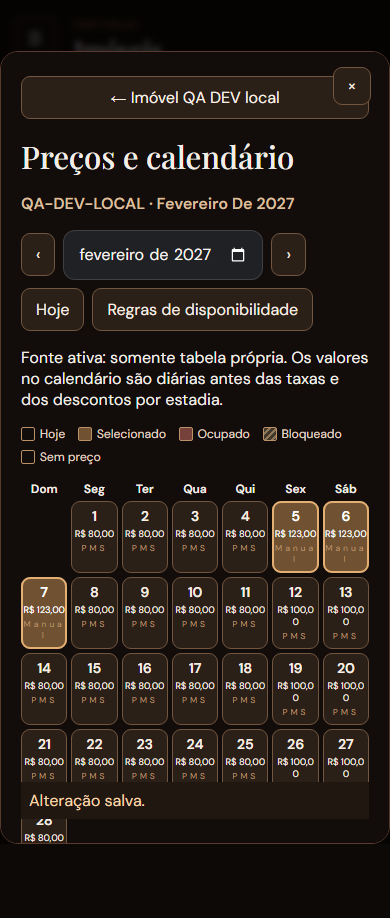
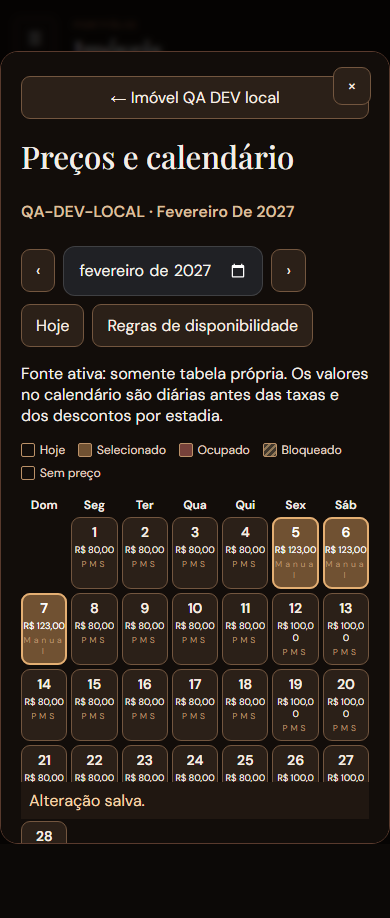
Finish PMS DEV UX review and regression report

Changed region(s): [[0.0308, 0.2135, 0.9538, 0.854], [0.0615, 0.8845, 0.1846, 0.915]]

diff --git a/admin.js b/admin.js
@@ -671,7 +671,7 @@ function openReservation(id,options={}){
   if(!options.fromHistory)panelState('prices',{id:p.id,month:initialMonth||today().slice(0,7),origin:options.origin||'property',selection:options.selection});
  window.VillePropertyPricing.mount($('#admin-modal-content'),{
   property:p,api,block:body=>api('block_action',body,C.supabaseUrl+'/functions/v1/pms-operations'),
-   back:panelBack,availability:context=>{if(!allowDiscard())return;delete $('#admin-modal-content').dataset.dirty;openAvailability(p.id,{origin:'prices',month:context.month,tab:'rules',priceContext:context})},esc,brl,formatDate:date,today:today(),initialMonth,initialSelection:options.selection,
+   back:panelBack,backLabel:options.origin==='calendar'?'Multicalendário':options.origin==='availability'?'Disponibilidade':p.name,availability:context=>{if(!allowDiscard())return;delete $('#admin-modal-content').dataset.dirty;openAvailability(p.id,{origin:'prices',month:context.month,tab:'rules',priceContext:context})},esc,brl,formatDate:date,today:today(),initialMonth,initialSelection:options.selection,
    onContext:context=>{if(history.state?.uxScreen==='prices')history.replaceState({...history.state,month:context.month,selection:context.selection},'',location.href)},
   onSaved:updated=>Object.assign(p,updated),
  });
@@ -834,7 +834,7 @@ const workspaceCard=(key,title,summary)=>`<button type="button" data-workspace="
 function organizeAvailability(initialTab='calendar'){
  const host=$('#admin-modal-content'),form=$('#availability-form'),calendar=$('#property-availability-calendar').parentElement,connections=$('#property-calendar-connections');
  const heading=form.previousElementSibling;heading.hidden=true;
- const tabs=document.createElement('div');tabs.className='workspace-tabs';tabs.innerHTML='<button type="button" data-availability-tab="calendar">Multicalendário</button><button type="button" data-availability-tab="rules">Regras de estadia</button><button type="button" data-availability-tab="links">Calendários conectados</button>';host.insertBefore(tabs,calendar);
+ const tabs=document.createElement('div');tabs.className='workspace-tabs';tabs.setAttribute('role','tablist');tabs.setAttribute('aria-label','Disponibilidade do imóvel');calendar.id='availability-panel-calendar';tabs.innerHTML='<button type="button" role="tab" aria-controls="availability-panel-calendar" data-availability-tab="calendar">Calendário</button><button type="button" role="tab" aria-controls="availability-form" data-availability-tab="rules">Regras de estadia</button><button type="button" role="tab" aria-controls="property-calendar-connections" data-availability-tab="links">Calendários conectados</button>';host.insertBefore(tabs,calendar);
   const activate=key=>{calendar.hidden=key!=='calendar';form.hidden=key!=='rules';connections.hidden=key!=='links';tabs.querySelectorAll('button').forEach(b=>{const active=b.dataset.availabilityTab===key;b.classList.toggle('active',active);b.setAttribute('aria-selected',String(active))});if(history.state?.uxScreen==='availability')history.replaceState({...history.state,tab:key},'',location.href)};tabs.onclick=e=>{const b=e.target.closest('button');if(b)activate(b.dataset.availabilityTab)};activate(initialTab);
  const grid=form.querySelector('.admin-form-grid');
  for(const label of [...grid.children]){const input=label.querySelector('input,select');const value=input.tagName==='SELECT'?input.selectedOptions[0].textContent:input.value;const title=label.firstChild.textContent;const detail=document.createElement('details');detail.className='workspace-rule';const summary=document.createElement('summary');summary.textContent=title+' · '+value;grid.insertBefore(detail,label);detail.append(summary,label);input.addEventListener('change',()=>{summary.textContent=title+' · '+(input.tagName==='SELECT'?input.selectedOptions[0].textContent:input.value)})}

diff --git a/property-pricing-calendar.js b/property-pricing-calendar.js
@@ -54,8 +54,8 @@ function editPeriods(periods, start, end, days, valueFor) {
   return merged;
 }
 
-function mount(host, {property, api, block, back, availability, esc, brl, formatDate, today, initialMonth, initialSelection, onContext, onSaved}) {
-  host.innerHTML = `<div class="pricing-calendar"><button type="button" class="workspace-back" data-price-back>← ${esc(property.name)}</button>
+function mount(host, {property, api, block, back, backLabel, availability, esc, brl, formatDate, today, initialMonth, initialSelection, onContext, onSaved}) {
+  host.innerHTML = `<div class="pricing-calendar"><button type="button" class="workspace-back" data-price-back>← ${esc(backLabel || property.name)}</button>
     <h2>Preços e calendário</h2><p class="price-context">${esc(property.code || property.name)} · <span data-price-context-month></span></p><div class="price-toolbar"><button type="button" data-prev aria-label="Mês anterior">‹</button>
       <input type="month" aria-label="Mês do calendário" data-price-month min="1900-01" max="9998-12" value="${initialMonth || today.slice(0, 7)}">
       <button type="button" data-next aria-label="Próximo mês">›</button><button type="button" data-today>Hoje</button>

diff --git a/property-pricing-calendar.css b/property-pricing-calendar.css
@@ -12,7 +12,7 @@
 .price-grid>button.price-missing:not([aria-pressed=true]) {border-color:#ba854f}
 .price-grid>button small {font-size:.64rem}
 .price-grid>button em{display:block;font:600 .55rem/1 sans-serif;text-decoration:none;color:#f7cf9e}
-.price-context{color:#d9bf9f;font-weight:600;text-transform:capitalize}
+.price-context{position:sticky;top:0;z-index:4;margin:0;padding:.5rem 0;background:#120d0a;color:#d9bf9f;font-weight:600;text-transform:capitalize}
 .price-legend{display:flex;flex-wrap:wrap;gap:.45rem .8rem;font-size:.76rem;color:#e3d4c4}
 .price-legend span{display:inline-flex;align-items:center;gap:.3rem}.price-legend span:before{content:"";width:.75rem;height:.75rem;border:1px solid #bb9168;border-radius:2px}.price-legend span:nth-child(2):before{background:#705132}.price-legend span:nth-child(3):before{background:#76413a}.price-legend span:nth-child(4):before{background:repeating-linear-gradient(135deg,#40372d,#40372d 3px,#8f7655 3px,#8f7655 5px)}
 .price-review{display:grid;gap:.6rem;border:1px solid #d1ac83;border-radius:.7rem;padding:1rem;background:#352719}.price-review button{justify-self:start}.price-review p{line-height:1.5}

diff --git a/docs/ux/issue-14/REPORT.md b/docs/ux/issue-14/REPORT.md
@@ -1,0 +1,49 @@
+# Issue #14 — PMS em DEV
+
+## Entrega
+
+- Base: `fix/dev-pix-refund-outcomes-20261106` em `f897a5b486b329b277cdc7834c71ef40913b468d`.
+- Branch: `ux/pms-e2e-issue-14`.
+- Primeiro commit da implementação: `4d6b0f39d2410a04509a8a168dbc5c321d1e1a26`.
+- [Prévia isolada da branch no Vercel](https://chalezinho-ville-git-ux-pms-e2e-issue-14-roldneicosta-4140.vercel.app/admin.html?view=properties), estado `READY`, alvo Preview, projeto `chalezinho-ville`.
+- `app-config.js` servido pela prévia aponta para Supabase `pxfqmnhqodqyaaqeyjgr`, `environment: development`, perfil `checkout-development` e Feelings desativado. Nenhuma conexão Airbnb/Booking foi alterada.
+
+## Mudanças
+
+1. Navegação com histórico para tela principal, imóvel, preços, disponibilidade e reserva. O botão Voltar retorna ao painel anterior; Fechar encerra o fluxo. Navegação do navegador, Escape e retorno do foco foram tratados. O mês, filtro, aba financeira, período selecionado e rolagem da vista principal são preservados ao voltar.
+2. Multicalendário mantém mês e imóvel ao abrir os preços. Cabeçalho e coluna de datas permanecem visíveis durante a rolagem interna.
+3. Calendário de preços mostra imóvel, mês, fonte da diária, hoje, período selecionado, ocupação, bloqueio e falta de preço em texto e estilo. A descrição de fallback PriceLabs → tabela própria acompanha o modo ativo.
+4. Mudança de preço em lote, bloqueio e desbloqueio apresentam revisão antes de salvar. O motivo do bloqueio é campo visível. Formulários avisam antes de descartar alterações.
+5. Imóveis sem foto exibem marcador visual, sem ícone de imagem quebrada. Controles receberam indicação de foco.
+
+## Matriz de verificação
+
+| Fluxo | Fixture sintética local | Prévia DEV com dados reais |
+| --- | --- | --- |
+| Imóveis → imóvel → Preços → Regras → Voltar | Passou em 390×844, 1366×768 e 1920×1080 | Aguardando login de administrador na nova prévia |
+| Multicalendário → imóvel → Preços → Voltar, mantendo mês/filtro | Passou nos três tamanhos | Aguardando login |
+| Reserva → Financeiro → detalhe → histórico do navegador | Passou nos três tamanhos | Aguardando login |
+| Preço por período e dias da semana, revisão e recarga | Passou; nenhum POST ocorre antes da confirmação | Aguardando imóvel QA DEV |
+| Bloqueio, desbloqueio e regras após recarga | Passou na fixture; nenhum POST de alteração de calendários externos | Aguardando imóvel QA DEV |
+| Cotação própria e fallback PriceLabs | 6 testes unitários passaram | Cotação com imóvel QA DEV pendente |
+| Hoje, Agenda, Reservas, Bloqueios, Tarefas, Manutenção, Indicadores, Checklists e Equipe | Rotas e módulos conferidos em leitura na prévia DEV anterior | Nova prévia pendente |
+| Notificações, aprovações, custos, experiências, estadias completas e configurações | Links e arquivos conferidos no repositório; cobertura financeira local passou | Fluxos completos na nova prévia pendentes |
+
+Os testes locais usam uma API simulada e um imóvel `QA-DEV-LOCAL` em memória. Não validam gravação no Supabase DEV nem cotação real. A inspeção operacional em navegador foi somente leitura, na prévia anterior da branch `fix/reservation`, com dados DEV existentes.
+
+## Evidência visual
+
+| Largura | Preços antes | Preços depois | Regras antes | Regras depois |
+| --- | --- | --- | --- | --- |
+| 390×844 | [PNG](prices-before-mobile.png) | [PNG](prices-after-mobile.png) | [PNG](rules-before-mobile.png) | [PNG](rules-after-mobile.png) |
+| 1366×768 | [PNG](prices-before-notebook.png) | [PNG](prices-after-notebook.png) | [PNG](rules-before-notebook.png) | [PNG](rules-after-notebook.png) |
+| 1920×1080 | [PNG](prices-before-desktop.png) | [PNG](prices-after-desktop.png) | [PNG](rules-before-desktop.png) | [PNG](rules-after-desktop.png) |
+
+Há também imagens de Imóveis antes/depois e do detalhe da reserva depois, no mesmo diretório. As capturas de referência foram geradas do SHA base com a mesma fixture sintética.
+
+## Testes e limites
+
+- `node --test` dos módulos de preço, disponibilidade, calendário e operação: 34 testes passaram.
+- Playwright focalizado em preços, regras, navegação, bloqueio/recarga, teclado, falha de carregamento e financeiro: **27 cenários passaram** nos três tamanhos, incluindo as capturas de referência.
+- A suíte geral de navegador foi interrompida após falhas nos testes da conta do hóspede e de Feelings; esses arquivos e telas não foram modificados nesta branch. Feelings permanece fora do escopo da issue.
+- A verificação ponta a ponta na nova prévia ainda depende de autenticação do administrador. Depois do login, usar exclusivamente o imóvel QA DEV e períodos sintéticos para testar gravação, recarga e cotação; não mudar vínculos reais de canais.
